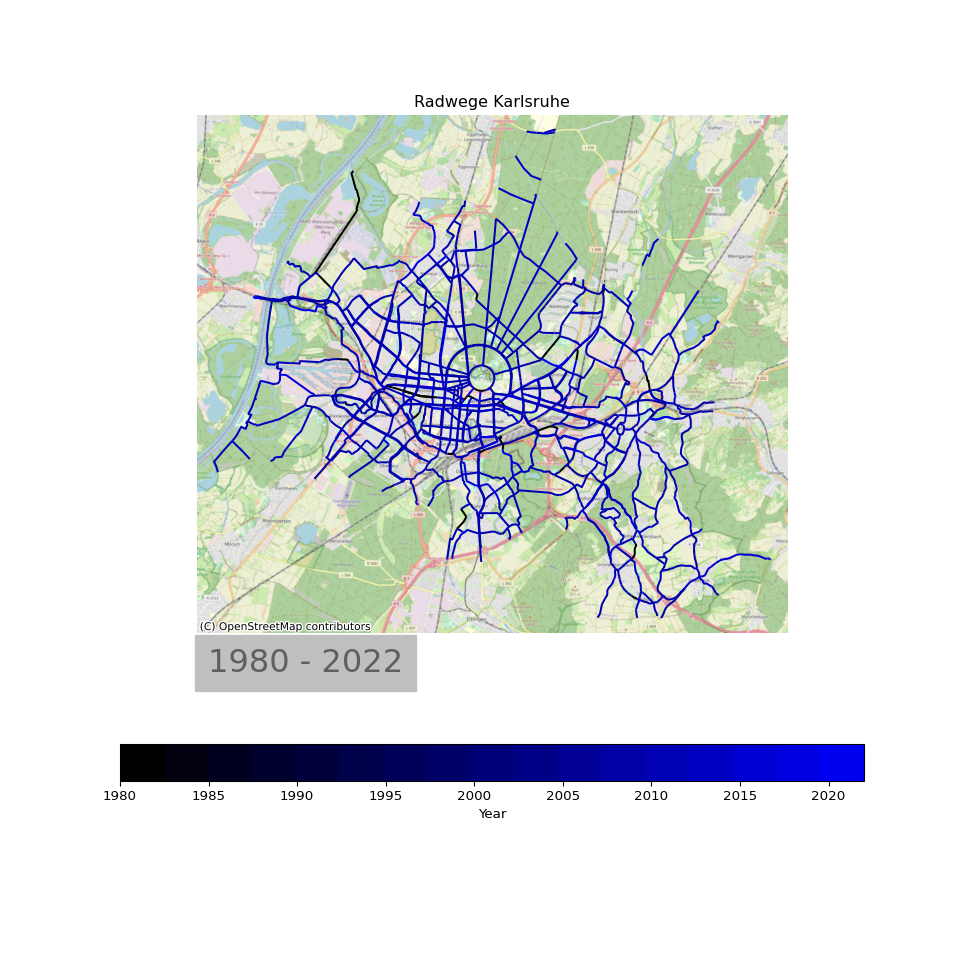
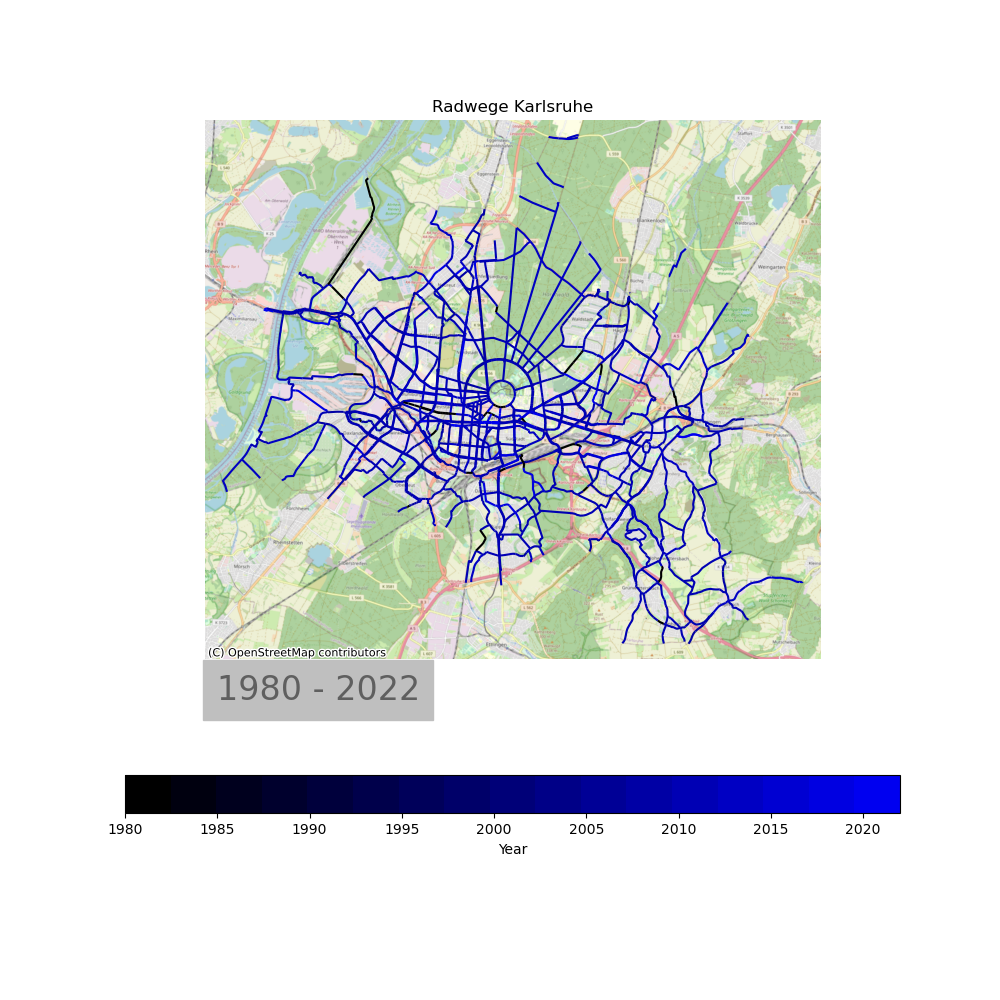
length check and summary output

diff --git a/bike_new_ka.py b/bike_new_ka.py
@@ -49,6 +49,7 @@ def yrs(x):
 edf["year"] = edf.VORGANGSZE.apply(yrs)
 print("Years:\n",edf.year)
 
+
 edf.to_file("edf.geojson")
 
 png = "tracks.png"
@@ -57,6 +58,13 @@ print(f"Plotting to {png}")
 # plot, color by years
 years = gp.np.sort(edf.year.unique())
 print("Years:\n",years)
+
+print(f"Total length: {edf.length.sum()/1000:.1f} km")
+g = edf.groupby(by="year")
+for y in years:
+    print(f"{y}: {g.get_group(y).length.sum()/1000:.1f} km")
+    print(f"Accumulated up to {y}: {edf[edf.year <= y].length.sum()/1000:.1f} km")
+    
 
 def colorFader(c1,c2,mix=0): #fade (linear interpolate) from color c1 (at mix=0) to c2 (mix=1)
     c1=gp.np.array(cls.to_rgb(c1))
@@ -205,7 +213,12 @@ def update(frame):
     print("update done ")
     return ln,
 
-ani = FuncAnimation(fig, update, frames=years[1:],
+# append some copies final frame
+frm = years[1:]
+for i in range(3):
+    frm = gp.np.concatenate([frm,[years[-1]]])
+    
+ani = FuncAnimation(fig, update, frames=frm,
                     init_func=init, interval = 1500, blit=True)
 
 ani.save("tracks.mp4")

diff --git a/readme.md b/readme.md
@@ -4,8 +4,6 @@ Geojson has Karlsruhe bike lanes built or defined since 1980 (big gap from 1980 
 
 Create map video with evolution of lanes.
 
-Total length appears to be quite large, needs checking/confirmation
-
 ![](tracks.png)
 
 ## Demo Video
@@ -17,6 +15,9 @@ Total length appears to be quite large, needs checking/confirmation
  * Fixed: OSM Contributors copyright text hidden by info text
  * Number of tracks and total length suspicious. Check with data provider
     * Removing duplicates (geometry based) helps, but maybe not sufficient
+    * According to *Nachaltigkeitsbericht* the total length is 531km in 2020. In 2012 
+    a bulk update of the database occured, which explains the jump in length in that year.
+    Result seems to be in-line with the official values. 
 
   
  
